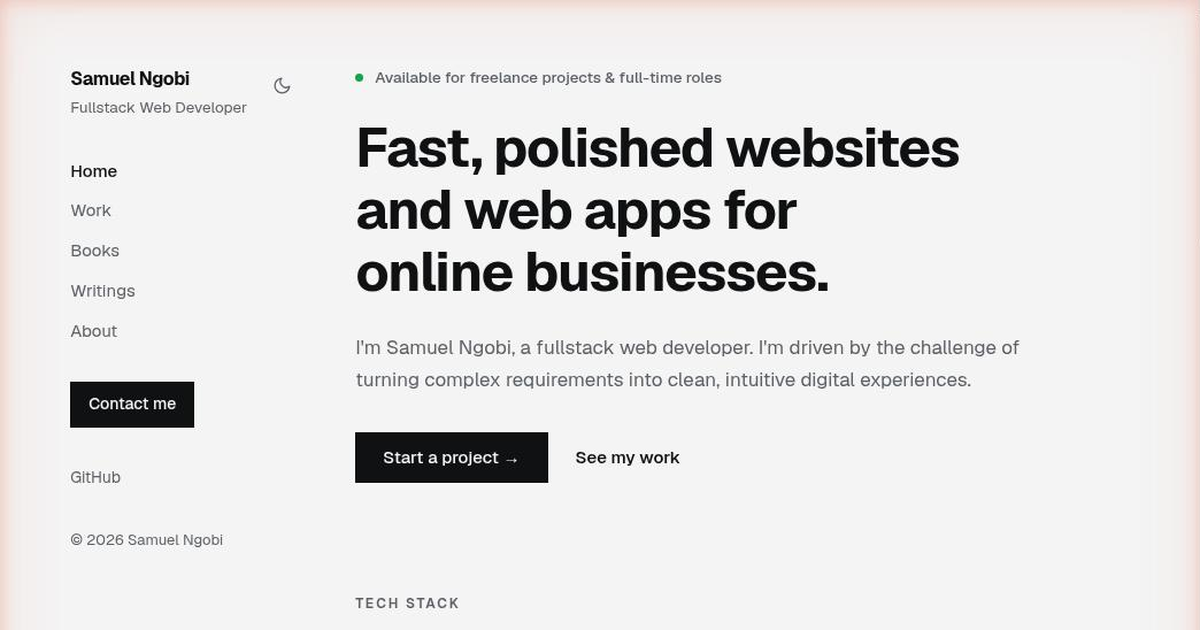
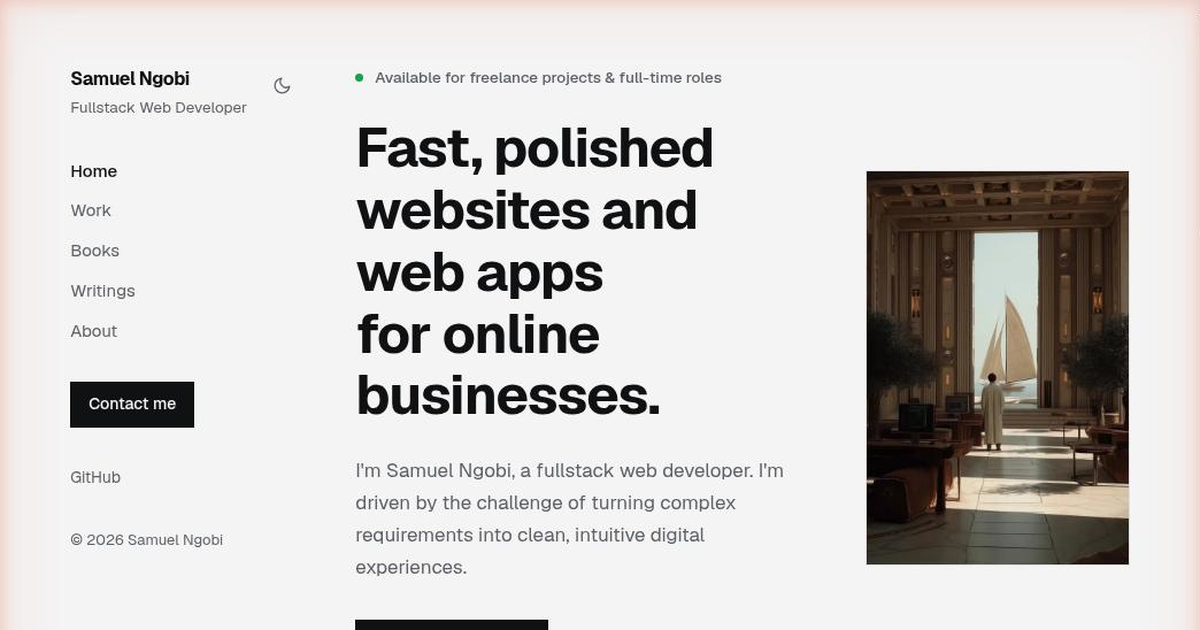
feat: add background hero image

Changed region(s): [[0.2775, 0.181, 0.9558, 0.9048], [0.2775, 0.8444, 0.5858, 1.0]]

diff --git a/app/page.js b/app/page.js
@@ -1,3 +1,4 @@
+import Image from "next/image";
 import Link from "next/link";
 import ProjectCard from "@/components/ProjectCard";
 import { TechGrid } from "@/components/TechIcon";
@@ -25,20 +26,11 @@ const STACK = [
 ];
 
 const FEATURED = [
-  {
-    name: "LaunchTracker",
-    tagline: "live mission dashboard",
-    description:
-      "A real-time dashboard for rocket launches: live countdowns, go/no-go status, a watchlist, and space-industry news, all updating without a page refresh. Designed and built solo, end to end — the clearest proof of how I handle live data, performance, and polish.",
-    live: "https://launch-status.vercel.app",
-    preview: "/previews/launch-status.webp",
-    stack: ["Next.js", "Vercel"],
-  },
-  {
+   {
     name: "Fruitland Cyprus",
     tagline: "client work · citrus farm",
     description:
-      "Marketing site for a family citrus farm in Cyprus. The owners needed a fast site they could update without calling a developer — I owned the whole build, from design through Sanity CMS setup to deployment, so they edit products and content themselves.",
+      "Marketing site for a family citrus farm in Cyprus. The owners needed a fast site they could update. In the first month of launch, orders increased by 57% doubling the profits. I owned the whole build, from design through Sanity CMS setup to deployment, so they edit products and content themselves.",
     live: "https://fruitlandcyprus.com",
     preview: "/previews/fruitland.webp",
     stack: ["Next.js", "Tailwind CSS", "Sanity", "Vercel"],
@@ -47,10 +39,19 @@ const FEATURED = [
     name: "Sterz",
     tagline: "creator marketplace",
     description:
-      "A two-sided marketplace where brands fund campaigns into escrow and creators get paid as verified views land, view counts checked against each platform's API, so neither side has to trust screenshots. Built solo: auth, marketplace flows, and payouts.",
+      "A two-sided marketplace where brands fund campaigns into escrow and creators get paid as verified views land, view counts checked against each platform's API. Owned building of auth, marketplace flows, and payouts.",
     live: "https://ster-seven.vercel.app",
     preview: "/previews/sterz.webp",
     stack: ["Next.js", "Supabase", "Vercel"],
+  },
+  {
+    name: "LaunchTracker",
+    tagline: "live mission dashboard",
+    description:
+      "A real-time dashboard for rocket launches: live countdowns, go/no-go status, a watchlist, and space-industry news, all updating without a page refresh. During artemis 2 season, this site served 3000+ users with realtime streaming links and updates through the news channels. ",
+    live: "https://launch-status.vercel.app",
+    preview: "/previews/launch-status.webp",
+    stack: ["Next.js", "Vercel"],
   },
 ];
 
@@ -72,29 +73,38 @@ const PROCESS = [
 export default function Home() {
   return (
     <div>
-      {/* Hero */}
-      <section>
-        <p className="flex items-center gap-2.5 text-[13.5px] font-medium text-[var(--muted)]">
-          <span className="status-dot" />
-          Available for freelance projects &amp; full-time roles
-        </p>
-        <h1 className="mt-6 text-[clamp(2.1rem,5.5vw,3rem)] font-bold leading-[1.12] tracking-tight">
-          Fast, polished websites and web apps for online businesses.
-        </h1>
-        <p className="mt-6 max-w-[54ch] text-[17px] text-[var(--muted)]">
-          I'm Samuel Ngobi, a fullstack web developer. I'm driven by the challenge of turning complex requirements
-          into clean, intuitive digital experiences.
-        </p>
-        <div className="mt-8 flex flex-wrap items-center gap-x-6 gap-y-3 text-[15px]">
-          <Link
-            href="/contact"
-            className="bg-[var(--fg)] px-6 py-2.5 font-medium text-[var(--bg)] transition-opacity hover:opacity-85"
-          >
-            Start a project →
-          </Link>
-          <Link href="/work" className="link">
-            See my work
-          </Link>
+      {/* Hero — the full artwork shows edge to edge behind a uniform dark
+          scrim, with light text on top so both sides of the piece stay
+          visible in either theme. */}
+      <section className="relative overflow-hidden border border-[var(--line)]">
+        <Image
+          src="/hero.webp"
+          alt=""
+          fill
+          priority
+          sizes="(max-width: 768px) 100vw, 736px"
+          className="object-cover "
+        />
+        <div aria-hidden="true" className="absolute inset-0 bg-black/55" />
+        <div className="relative px-6 py-12 text-white sm:px-9 sm:py-16">         
+          <p className="mt-6 max-w-[46ch] text-[20px] text-white/90">
+            I'm Samuel Ngobi, a fullstack web developer driven by the challenge of turning complex requirements
+            into clean, intuitive digital experiences.
+          </p>
+          <div className="mt-8 flex flex-wrap items-center gap-x-6 gap-y-3 text-[15px]">
+            <Link
+              href="/contact"
+              className="bg-white px-6 py-2.5 font-medium text-black transition-opacity hover:opacity-85"
+            >
+              Start a project →
+            </Link>
+            <Link
+              href="/work"
+              className="font-[550] text-white transition-opacity hover:opacity-70"
+            >
+              See my work
+            </Link>
+          </div>
         </div>
       </section>
 
